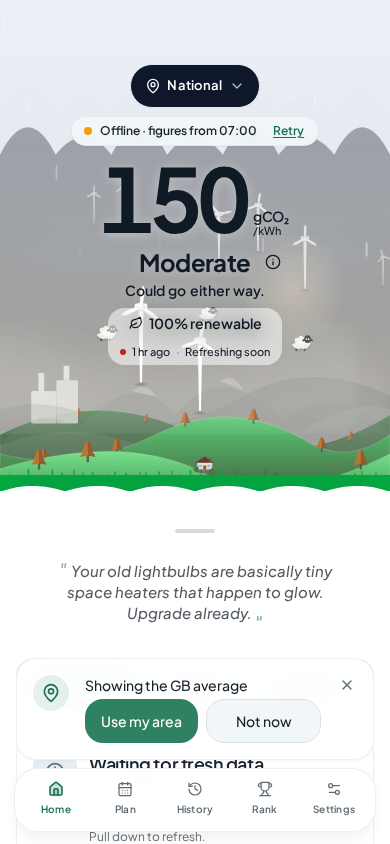
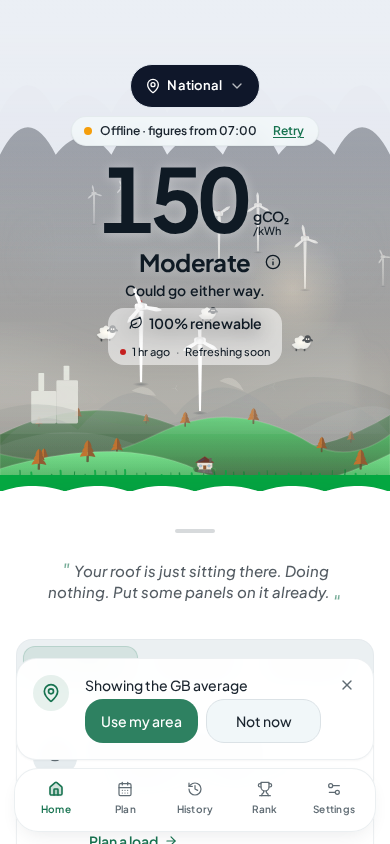
fix(offline): day labels on the offline pill; contractions in the offline card (Design calls on #178)
Pill, in UK time: today time only, "Yesterday 07:00", "Tue 07:00" for 2-6
days, "12 Oct" for older; BST/GMT kept on the repeated hour. Screen
readers get the full form ("Offline. Reading from yesterday at 07:00").
Copy lives in OFFLINE_PILL_COPY. Offline card body: "We'll refresh
automatically when you're back online."

diff --git a/src/lib/offlineReadingTime.test.tsx b/src/lib/offlineReadingTime.test.tsx
@@ -2,7 +2,7 @@ import { describe, it, expect, afterEach } from 'vitest';
 import { render, screen, act } from '@testing-library/react';
 import { QueryClient, QueryClientProvider } from '@tanstack/react-query';
 import { cachedReadingAt, setHeroReadingAt, type CachedQueryLike } from './offlineReadingTime';
-import { offlinePillText } from '@/lib/voice/statesCopy';
+import { londonDaysAgo, offlinePillLabel, offlinePillText } from '@/lib/voice/statesCopy';
 import { OfflineIndicator, resetOfflineWarningForTests } from '@/components/OfflineIndicator';
 
 // BH-88: the offline pill shows the reading's own time in UK time, never when
@@ -24,26 +24,100 @@ afterEach(() => {
 });
 
 describe('offlinePillText (BH-88)', () => {
+  const NOW_0830_BST = SAVED_0830_BST; // Fri 23 Oct 2026 08:30 BST
+  const pill = (iso: string, now = NOW_0830_BST) => offlinePillText(utc(iso), now);
+  const label = (iso: string, now = NOW_0830_BST) => offlinePillLabel(utc(iso), now);
+
   it('a 07:00 reading saved at 08:30 shows 07:00', () => {
-    expect(offlinePillText(utc(READING_0700_BST))).toBe('Offline · figures from 07:00');
+    expect(pill(READING_0700_BST)).toBe('Offline · figures from 07:00');
+    expect(label(READING_0700_BST)).toBe('Offline. Reading from 07:00');
   });
 
   it('nothing saved', () => {
     expect(offlinePillText(null)).toBe('Offline · nothing saved yet');
+    expect(offlinePillLabel(null)).toBe('Offline. Nothing saved yet.');
+  });
+
+  describe('day bands (Design call, #178), UK time', () => {
+    it('today: time only', () => {
+      expect(pill('2026-10-22T23:00Z')).toBe('Offline · figures from 00:00'); // 00:00 BST today
+    });
+    it('yesterday: "Yesterday 07:00"', () => {
+      expect(pill('2026-10-22T06:00Z')).toBe('Offline · figures from Yesterday 07:00');
+      expect(label('2026-10-22T06:00Z')).toBe('Offline. Reading from yesterday at 07:00');
+    });
+    it('2 to 6 days ago: short weekday', () => {
+      expect(pill('2026-10-21T06:00Z')).toBe('Offline · figures from Wed 07:00'); // 2 days
+      expect(label('2026-10-21T06:00Z')).toBe('Offline. Reading from Wednesday at 07:00');
+      expect(pill('2026-10-17T06:00Z')).toBe('Offline · figures from Sat 07:00'); // 6 days
+    });
+    it('7 or more days ago: the date', () => {
+      expect(pill('2026-10-16T06:00Z')).toBe('Offline · figures from 16 Oct'); // 7 days
+      expect(pill('2026-10-05T06:00Z')).toBe('Offline · figures from 5 Oct');
+      expect(label('2026-10-12T06:00Z')).toBe('Offline. Reading from 12 October');
+    });
+  });
+
+  describe('around UK midnight', () => {
+    // 23:59 BST on Thu 22 Oct is 22:59 UTC; 00:00 BST on Fri 23 Oct is 23:00 UTC on the 22nd.
+    it('23:59 the day before is yesterday, 00:00 is today', () => {
+      expect(pill('2026-10-22T22:59Z')).toBe('Offline · figures from Yesterday 23:59');
+      expect(pill('2026-10-22T23:00Z')).toBe('Offline · figures from 00:00');
+    });
+    it('just after midnight, a 23:30 reading is yesterday', () => {
+      const now = utc('2026-10-22T23:00:30Z'); // 00:00:30 BST Fri
+      expect(pill('2026-10-22T22:30Z', now)).toBe('Offline · figures from Yesterday 23:30');
+    });
+    it('just before midnight, a 00:00 reading is still today', () => {
+      const now = utc('2026-10-23T22:59:59Z'); // 23:59:59 BST Fri
+      expect(pill('2026-10-22T23:00Z', now)).toBe('Offline · figures from 00:00');
+    });
+    it('6 vs 7 days at midnight', () => {
+      const now = utc('2026-10-22T23:00Z'); // 00:00 BST Fri 23 Oct
+      expect(pill('2026-10-16T23:00Z', now)).toBe('Offline · figures from Sat 00:00'); // 6 days
+      expect(pill('2026-10-16T22:59Z', now)).toBe('Offline · figures from 16 Oct'); // 7 days
+    });
   });
 
   // 25 Oct 2026: BST ends, clocks go back at 02:00 BST to 01:00 GMT.
-  it('across the clock change on 25 Oct 2026: UK time either side', () => {
-    // Saturday 24 Oct, still BST: 06:00 UTC is 07:00.
-    expect(offlinePillText(utc('2026-10-24T06:00Z'))).toBe('Offline · figures from 07:00');
-    // Sunday 25 Oct, now GMT: 07:00 UTC is 07:00, and 06:00 UTC is 06:00.
-    expect(offlinePillText(utc('2026-10-25T07:00Z'))).toBe('Offline · figures from 07:00');
-    expect(offlinePillText(utc('2026-10-25T06:00Z'))).toBe('Offline · figures from 06:00');
+  describe('clock-change night, 25 Oct 2026', () => {
+    const SUN_0830_GMT = utc('2026-10-25T08:30Z');
+    it('UK time either side of the change', () => {
+      expect(pill('2026-10-25T07:00Z', SUN_0830_GMT)).toBe('Offline · figures from 07:00');
+      expect(pill('2026-10-25T06:00Z', SUN_0830_GMT)).toBe('Offline · figures from 06:00');
+      // Saturday 24 Oct, still BST: 06:00 UTC is 07:00.
+      expect(pill('2026-10-24T06:00Z', SUN_0830_GMT)).toBe(
+        'Offline · figures from Yesterday 07:00',
+      );
+    });
+    it('the repeated 01:00 hour says BST or GMT', () => {
+      expect(pill('2026-10-25T00:30Z', SUN_0830_GMT)).toBe('Offline · figures from 01:30 BST');
+      expect(pill('2026-10-25T01:30Z', SUN_0830_GMT)).toBe('Offline · figures from 01:30 GMT');
+      expect(label('2026-10-25T01:30Z', SUN_0830_GMT)).toBe(
+        'Offline. Reading from 1:30 am GMT, after the clocks went back',
+      );
+    });
+    it('the repeated hour keeps its tag the next day, with Yesterday', () => {
+      const MON_0830_GMT = utc('2026-10-26T08:30Z');
+      expect(pill('2026-10-25T00:30Z', MON_0830_GMT)).toBe(
+        'Offline · figures from Yesterday 01:30 BST',
+      );
+      expect(pill('2026-10-25T01:30Z', MON_0830_GMT)).toBe(
+        'Offline · figures from Yesterday 01:30 GMT',
+      );
+    });
+    it('midnight on the 25-hour day: 00:00 BST and 23:59 GMT are the same UK day', () => {
+      const now = utc('2026-10-25T23:59Z'); // 23:59 GMT Sun
+      expect(pill('2026-10-24T23:00Z', now)).toBe('Offline · figures from 00:00'); // 00:00 BST Sun
+      expect(pill('2026-10-24T22:59Z', now)).toBe('Offline · figures from Yesterday 23:59');
+    });
   });
+});
 
-  it('the repeated 01:00 hour on 25 Oct 2026 says BST or GMT', () => {
-    expect(offlinePillText(utc('2026-10-25T00:30Z'))).toBe('Offline · figures from 01:30 BST');
-    expect(offlinePillText(utc('2026-10-25T01:30Z'))).toBe('Offline · figures from 01:30 GMT');
+describe('londonDaysAgo', () => {
+  it('counts UK calendar days, not 24-hour blocks', () => {
+    // 23:30 BST Sat -> 00:30 GMT Mon is two UK days, 26 hours apart.
+    expect(londonDaysAgo(utc('2026-10-24T22:30Z'), utc('2026-10-26T00:30Z'))).toBe(2);
   });
 });
 

diff --git a/src/lib/voice/statesCopy.ts b/src/lib/voice/statesCopy.ts
@@ -3,15 +3,98 @@
  * Plain in both tones (clarity wins). Times are Europe/London. Error-state
  * cards (slow, outage, stale, offline, rank, planner) live in errorStatesCopy.
  */
-import { formatLondonSlotTime } from '@/lib/londonTime';
+import {
+  formatLondonDayLongMonth,
+  formatLondonDayShortMonth,
+  formatLondonShortWeekday,
+  formatLondonSlotSpoken,
+  formatLondonSlotTime,
+  formatLondonWeekday,
+  londonDateKey,
+} from '@/lib/londonTime';
 
 /**
- * Compact hero pill (motion spec §2.7). `readingAt` is the reading's own time (BH-88), shown in UK time. On
- * clock-change day the repeated hour carries BST or GMT ("01:30 GMT").
+ * Offline pill (motion spec §2.7). Says how old the figure is, so it uses the
+ * reading's own time (BH-88), in UK time. Day labels are Design's call (#178):
+ * today is the time only, then "Yesterday 07:00", "Tue 07:00" for 2 to 6 days
+ * ago, and the date ("12 Oct") for anything older. The repeated hour on
+ * clock-change night keeps its BST/GMT tag.
  */
-export function offlinePillText(readingAt: number | null): string {
-  if (!readingAt) return 'Offline · nothing saved yet';
-  return `Offline · figures from ${formatLondonSlotTime(new Date(readingAt))}`;
+export const OFFLINE_PILL_COPY = {
+  prefix: 'Offline · figures from',
+  nothingSaved: 'Offline · nothing saved yet',
+  yesterday: 'Yesterday',
+  /** Screen-reader form, e.g. "Offline. Reading from yesterday at 07:00" (Design call, #178). */
+  ariaOffline: 'Offline.',
+  ariaPrefix: 'Reading from',
+  ariaYesterday: 'yesterday',
+  ariaAt: 'at',
+  ariaNothingSaved: 'Offline. Nothing saved yet.',
+} as const;
+
+export type ReadingDayBand = 'today' | 'yesterday' | 'weekday' | 'date';
+
+const DAY_MS = 24 * 60 * 60 * 1000;
+
+/** Whole UK calendar days between the reading and now (0 = same UK day). */
+export function londonDaysAgo(readingAt: number, now: number): number {
+  const day = (t: number) => {
+    const [y, m, d] = londonDateKey(new Date(t)).split('-').map(Number);
+    return Date.UTC(y, m - 1, d);
+  };
+  return Math.round((day(now) - day(readingAt)) / DAY_MS);
+}
+
+export function readingDayBand(readingAt: number, now: number): ReadingDayBand {
+  const days = londonDaysAgo(readingAt, now);
+  if (days <= 0) return 'today';
+  if (days === 1) return 'yesterday';
+  if (days <= 6) return 'weekday';
+  return 'date';
+}
+
+/** "07:00", "Yesterday 07:00", "Tue 07:00" or "12 Oct", in UK time. */
+export function readingWhen(readingAt: number, now: number): string {
+  const at = new Date(readingAt);
+  const time = formatLondonSlotTime(at);
+  switch (readingDayBand(readingAt, now)) {
+    case 'today':
+      return time;
+    case 'yesterday':
+      return `${OFFLINE_PILL_COPY.yesterday} ${time}`;
+    case 'weekday':
+      return `${formatLondonShortWeekday(at)} ${time}`;
+    case 'date':
+      return formatLondonDayShortMonth(at);
+  }
+}
+
+/** "07:00", "yesterday at 07:00", "Tuesday at 07:00" or "12 October", for screen readers. */
+export function readingWhenSpoken(readingAt: number, now: number): string {
+  const at = new Date(readingAt);
+  const time = formatLondonSlotSpoken(at);
+  const { ariaAt } = OFFLINE_PILL_COPY;
+  switch (readingDayBand(readingAt, now)) {
+    case 'today':
+      return time;
+    case 'yesterday':
+      return `${OFFLINE_PILL_COPY.ariaYesterday} ${ariaAt} ${time}`;
+    case 'weekday':
+      return `${formatLondonWeekday(at)} ${ariaAt} ${time}`;
+    case 'date':
+      return formatLondonDayLongMonth(at);
+  }
+}
+
+export function offlinePillText(readingAt: number | null, now: number = Date.now()): string {
+  if (!readingAt) return OFFLINE_PILL_COPY.nothingSaved;
+  return `${OFFLINE_PILL_COPY.prefix} ${readingWhen(readingAt, now)}`;
+}
+
+/** e.g. "Offline. Reading from yesterday at 07:00". */
+export function offlinePillLabel(readingAt: number | null, now: number = Date.now()): string {
+  if (!readingAt) return OFFLINE_PILL_COPY.ariaNothingSaved;
+  return `${OFFLINE_PILL_COPY.ariaOffline} ${OFFLINE_PILL_COPY.ariaPrefix} ${readingWhenSpoken(readingAt, now)}`;
 }
 
 export const BACK_ONLINE_PILL = 'Back online';

diff --git a/e2e/offline-reading-time.spec.ts b/e2e/offline-reading-time.spec.ts
@@ -24,11 +24,11 @@ function row(fromMs: number, value: number) {
   };
 }
 
-async function mockNeso(page: Page) {
+async function mockNeso(page: Page, readingFrom = READING_FROM) {
   const nowSlot = Math.floor(SAVED_AT / SLOT) * SLOT;
   await page.route('https://api.carbonintensity.org.uk/**', async (route) => {
     const path = new URL(route.request().url()).pathname;
-    if (path === '/intensity') return route.fulfill({ json: { data: [row(READING_FROM, 150)] } });
+    if (path === '/intensity') return route.fulfill({ json: { data: [row(readingFrom, 150)] } });
     if (path.startsWith('/intensity/')) {
       const rows = Array.from({ length: 100 }, (_, i) => row(nowSlot + (i - 2) * SLOT, 150));
       return route.fulfill({ json: { data: rows } });
@@ -78,6 +78,27 @@ test('BH-88: offline pill shows the reading time (07:00), not the save time (08:
   await page.screenshot({ path: shot('bh88-offline-pill') });
   await expect(pill).toContainText('Offline · figures from 07:00');
   await expect(pill).not.toContainText('08:30');
+  await expect(pill.getByRole('status')).toContainText('Offline. Reading from 07:00');
+  await context.setOffline(false);
+});
+
+test('BH-88: a reading from yesterday says "Yesterday 07:00" (Design call, #178)', async ({
+  page,
+  context,
+}) => {
+  await page.clock.install({ time: SAVED_AT });
+  await page.setViewportSize({ width: 390, height: 844 });
+  // Thu 22 Oct 2026 07:00 BST, seen on Fri 23 Oct at 08:30 BST.
+  await mockNeso(page, READING_FROM - 24 * 60 * 60_000);
+  await openHome(page);
+  await expect(page.getByTestId('hero-status-slot')).toBeAttached({ timeout: 20000 });
+  await page.waitForTimeout(1500);
+  await context.setOffline(true);
+  const pill = page.getByTestId('hero-status-slot').getByTestId('connection-pill');
+  await expect(pill).toContainText('Offline · figures from Yesterday 07:00');
+  await expect(pill.getByRole('status')).toContainText('Offline. Reading from yesterday at 07:00');
+  await page.waitForTimeout(800);
+  await page.screenshot({ path: shot('bh88-offline-pill-yesterday') });
   await context.setOffline(false);
 });
 
@@ -103,9 +124,14 @@ test('BH-89: offline with nothing cached says "Offline" once, in the hero', asyn
   await page.screenshot({ path: shot('bh89-offline-empty') });
   await expect(card).not.toContainText("You're offline");
   await expect(card).toContainText('Nothing saved yet.');
+  await expect(card).toContainText("We'll refresh automatically when you're back online.");
   await expect(card.getByRole('button', { name: 'Try now' })).toBeVisible();
+  // Design call (#178): the icon is top-aligned with the first line of text.
+  const icon = await card.locator('span[aria-hidden="true"]').first().boundingBox();
+  const text = await card.locator('p').first().boundingBox();
+  expect(Math.abs(icon!.y - text!.y)).toBeLessThanOrEqual(1);
   // One offline message on screen: the hero's.
-  await expect(page.getByText(/offline/i)).toHaveCount(1);
+  await expect(page.getByText(/offline/i).and(page.locator(':not(.sr-only)'))).toHaveCount(1);
   await expect(page.getByTestId('connection-pill')).toHaveCount(0);
   await context.setOffline(false);
 });

diff --git a/src/components/OfflineIndicator.offline-states.test.tsx b/src/components/OfflineIndicator.offline-states.test.tsx
@@ -58,7 +58,7 @@ describe('Offline: pill vs full state (Design call)', () => {
     expect(card).not.toHaveTextContent(/you're offline/i);
     expect(card.querySelector('h3')).toBeNull();
     expect(card).toHaveTextContent('Nothing saved yet.');
-    expect(card).toHaveTextContent('We will refresh automatically when you are back online.');
+    expect(card).toHaveTextContent("We'll refresh automatically when you're back online.");
     fireEvent.click(screen.getByRole('button', { name: 'Try now' }));
     expect(refetch).toHaveBeenCalledWith({ type: 'active' }, { cancelRefetch: false });
     await act(async () => {
@@ -95,7 +95,12 @@ describe('Offline pill Retry (Design call, BH-78)', () => {
     });
     const pill = screen.getByTestId('connection-pill');
     expect(pill).toHaveTextContent('Offline · nothing saved yet');
-    expect(screen.getAllByText(/offline/i)).toHaveLength(1);
+    // One visible offline message; the sr-only full form is for screen readers.
+    const visible = screen
+      .getAllByText(/offline/i)
+      .filter((el) => !el.classList.contains('sr-only'));
+    expect(visible).toHaveLength(1);
+    expect(pill).toHaveTextContent('Offline. Nothing saved yet.');
     fireEvent.click(screen.getByRole('button', { name: 'Retry' }));
     expect(refetch).toHaveBeenCalledWith({ type: 'active' }, { cancelRefetch: false });
     await act(async () => {

diff --git a/e2e/offline-states.spec.ts b/e2e/offline-states.spec.ts
@@ -66,7 +66,7 @@ for (const viewport of [
     await expect(page.getByTestId('connection-pill')).toHaveCount(1);
     await expect(page.getByTestId('offline-empty-state')).toHaveCount(0);
     // Exactly one offline message: the pill (no card, chip or stale card too).
-    await expect(page.getByText(/offline/i)).toHaveCount(1);
+    await expect(page.getByText(/offline/i).and(page.locator(':not(.sr-only)'))).toHaveCount(1);
     await expect(page.getByTestId('last-known-chip')).toHaveCount(0);
     await expect(page.getByTestId('stale-reading-notice')).toHaveCount(0);
     await page.screenshot({ path: `test-results/offline-cached-${viewport.width}.png` });
@@ -92,7 +92,12 @@ for (const viewport of [
     expect(btn!.y + btn!.height).toBeLessThanOrEqual(nav!.y);
     await expect(page.getByTestId('connection-pill')).toHaveCount(0);
     // At most one offline message: the hero's "Offline" (none while it loads).
-    expect(await page.getByText(/offline/i).count()).toBeLessThanOrEqual(1);
+    expect(
+      await page
+        .getByText(/offline/i)
+        .and(page.locator(':not(.sr-only)'))
+        .count(),
+    ).toBeLessThanOrEqual(1);
     await page.screenshot({ path: `test-results/offline-empty-${viewport.width}.png` });
     await context.setOffline(false);
   });

diff --git a/src/components/OfflineIndicator.tsx b/src/components/OfflineIndicator.tsx
@@ -7,7 +7,7 @@ import { useReducedMotion } from '@/hooks/useReducedMotion';
 import { NotificationType } from '@capacitor/haptics';
 import { useOfflineEmptyStateShown } from '@/lib/offlineEmptyState';
 import { useQueryClient } from '@tanstack/react-query';
-import { BACK_ONLINE_PILL, offlinePillText } from '@/lib/voice/statesCopy';
+import { BACK_ONLINE_PILL, offlinePillLabel, offlinePillText } from '@/lib/voice/statesCopy';
 import { cachedReadingAt, useHeroReadingAt } from '@/lib/offlineReadingTime';
 import { useHeroStatusSlot } from '@/lib/heroStatusSlot';
 import { dur, spring } from '@/lib/motion';
@@ -95,7 +95,14 @@ export function OfflineIndicator() {
             aria-hidden="true"
           />
           <motion.span layout={!reduced ? 'position' : false} role="status" aria-live="polite">
-            {state === 'offline' ? offlinePillText(readingAt) : BACK_ONLINE_PILL}
+            {state === 'offline' ? (
+              <>
+                <span aria-hidden="true">{offlinePillText(readingAt)}</span>
+                <span className="sr-only">{offlinePillLabel(readingAt)}</span>
+              </>
+            ) : (
+              BACK_ONLINE_PILL
+            )}
           </motion.span>
           {state === 'offline' && (
             <button

diff --git a/src/lib/londonTime.ts b/src/lib/londonTime.ts
@@ -195,3 +195,25 @@ const mediumDateFormatter = new Intl.DateTimeFormat('en-GB', {
 export function formatLondonDateTime(date: Date): string {
   return `${mediumDateFormatter.format(date)}, ${formatLondonSlotTime(date)}`;
 }
+
+const dayShortMonthFormatter = new Intl.DateTimeFormat('en-GB', {
+  timeZone: LONDON_TZ,
+  day: 'numeric',
+  month: 'short',
+});
+
+const dayLongMonthFormatter = new Intl.DateTimeFormat('en-GB', {
+  timeZone: LONDON_TZ,
+  day: 'numeric',
+  month: 'long',
+});
+
+/** "12 Oct" (no leading zero) in UK time. */
+export function formatLondonDayShortMonth(date: Date): string {
+  return dayShortMonthFormatter.format(date);
+}
+
+/** "12 October" in UK time. */
+export function formatLondonDayLongMonth(date: Date): string {
+  return dayLongMonthFormatter.format(date);
+}

diff --git a/src/lib/voice/errorStatesCopy.ts b/src/lib/voice/errorStatesCopy.ts
@@ -35,7 +35,7 @@ export const OFFLINE_COPY = {
     plain: 'Nothing saved yet.',
     cheeky: 'Nothing saved yet. The grid carries on without us.',
   },
-  auto: 'We will refresh automatically when you are back online.',
+  auto: "We'll refresh automatically when you're back online.",
   action: 'Try now',
 } as const;
 
